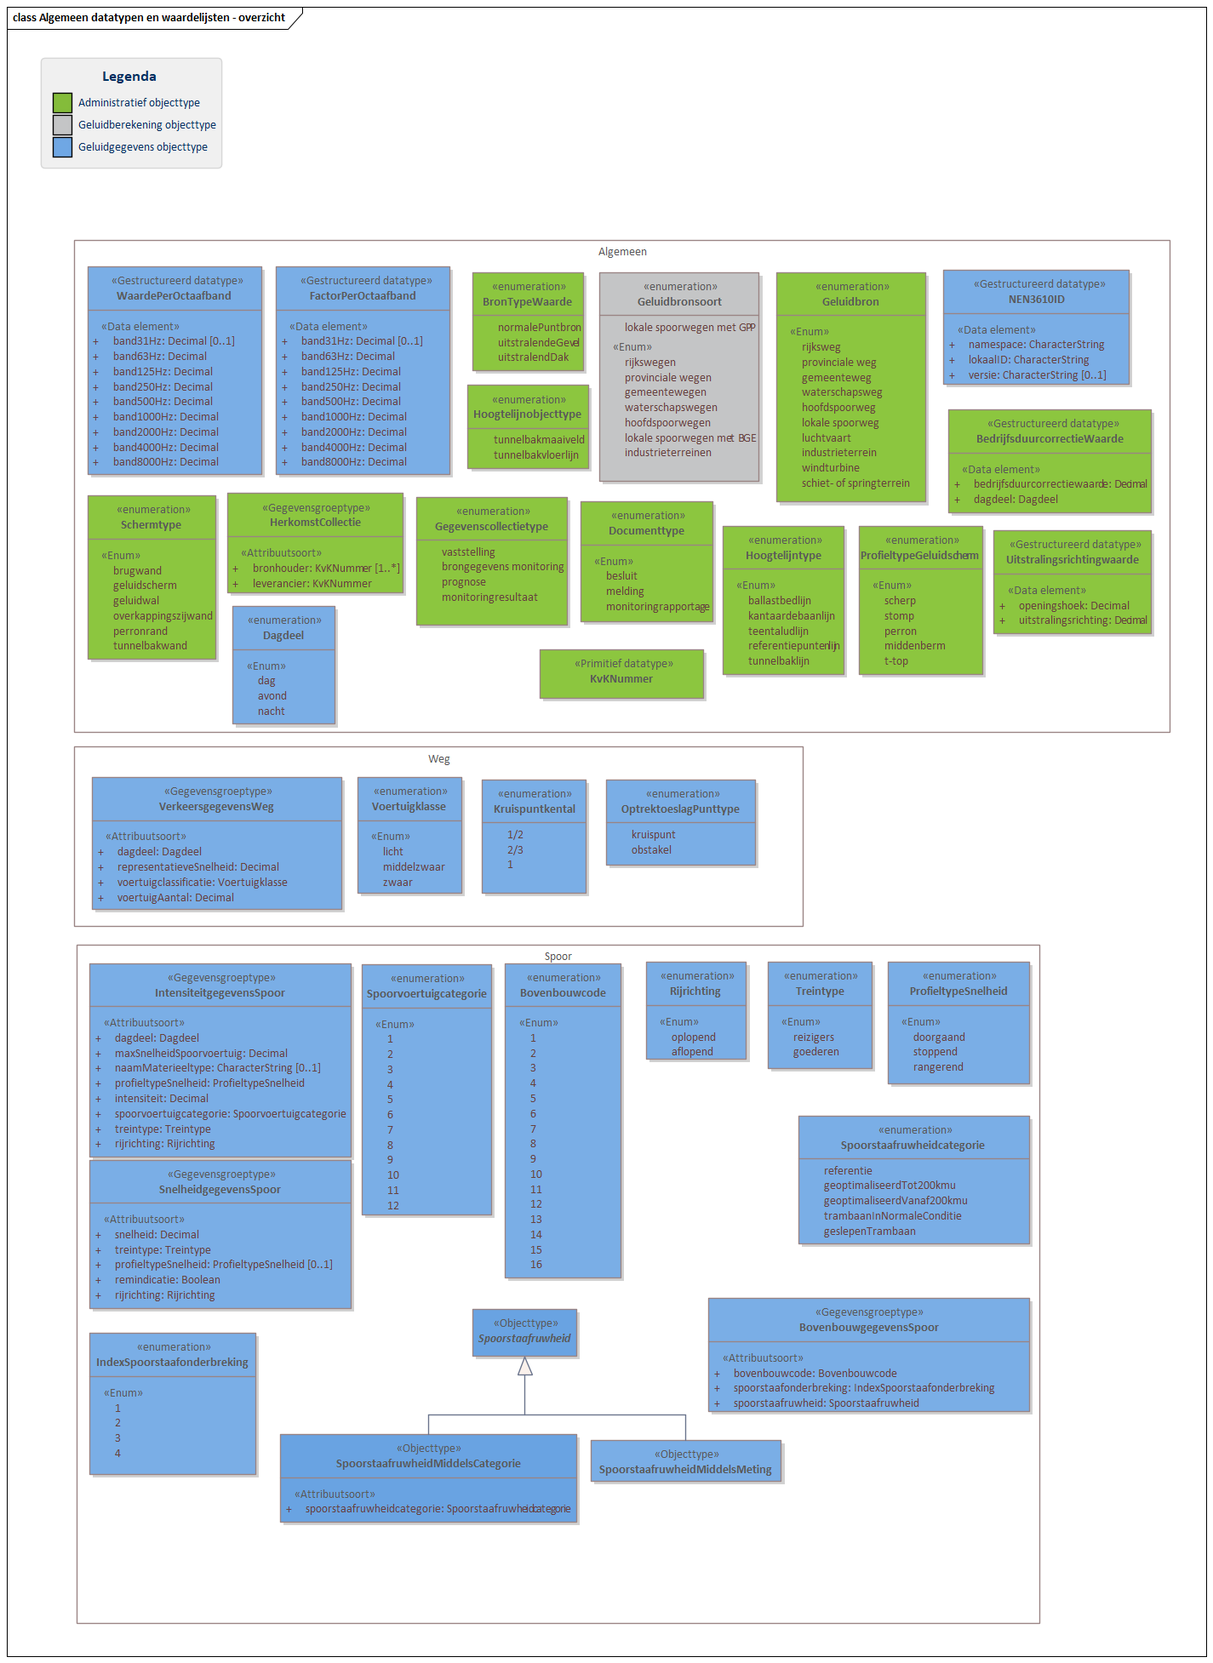
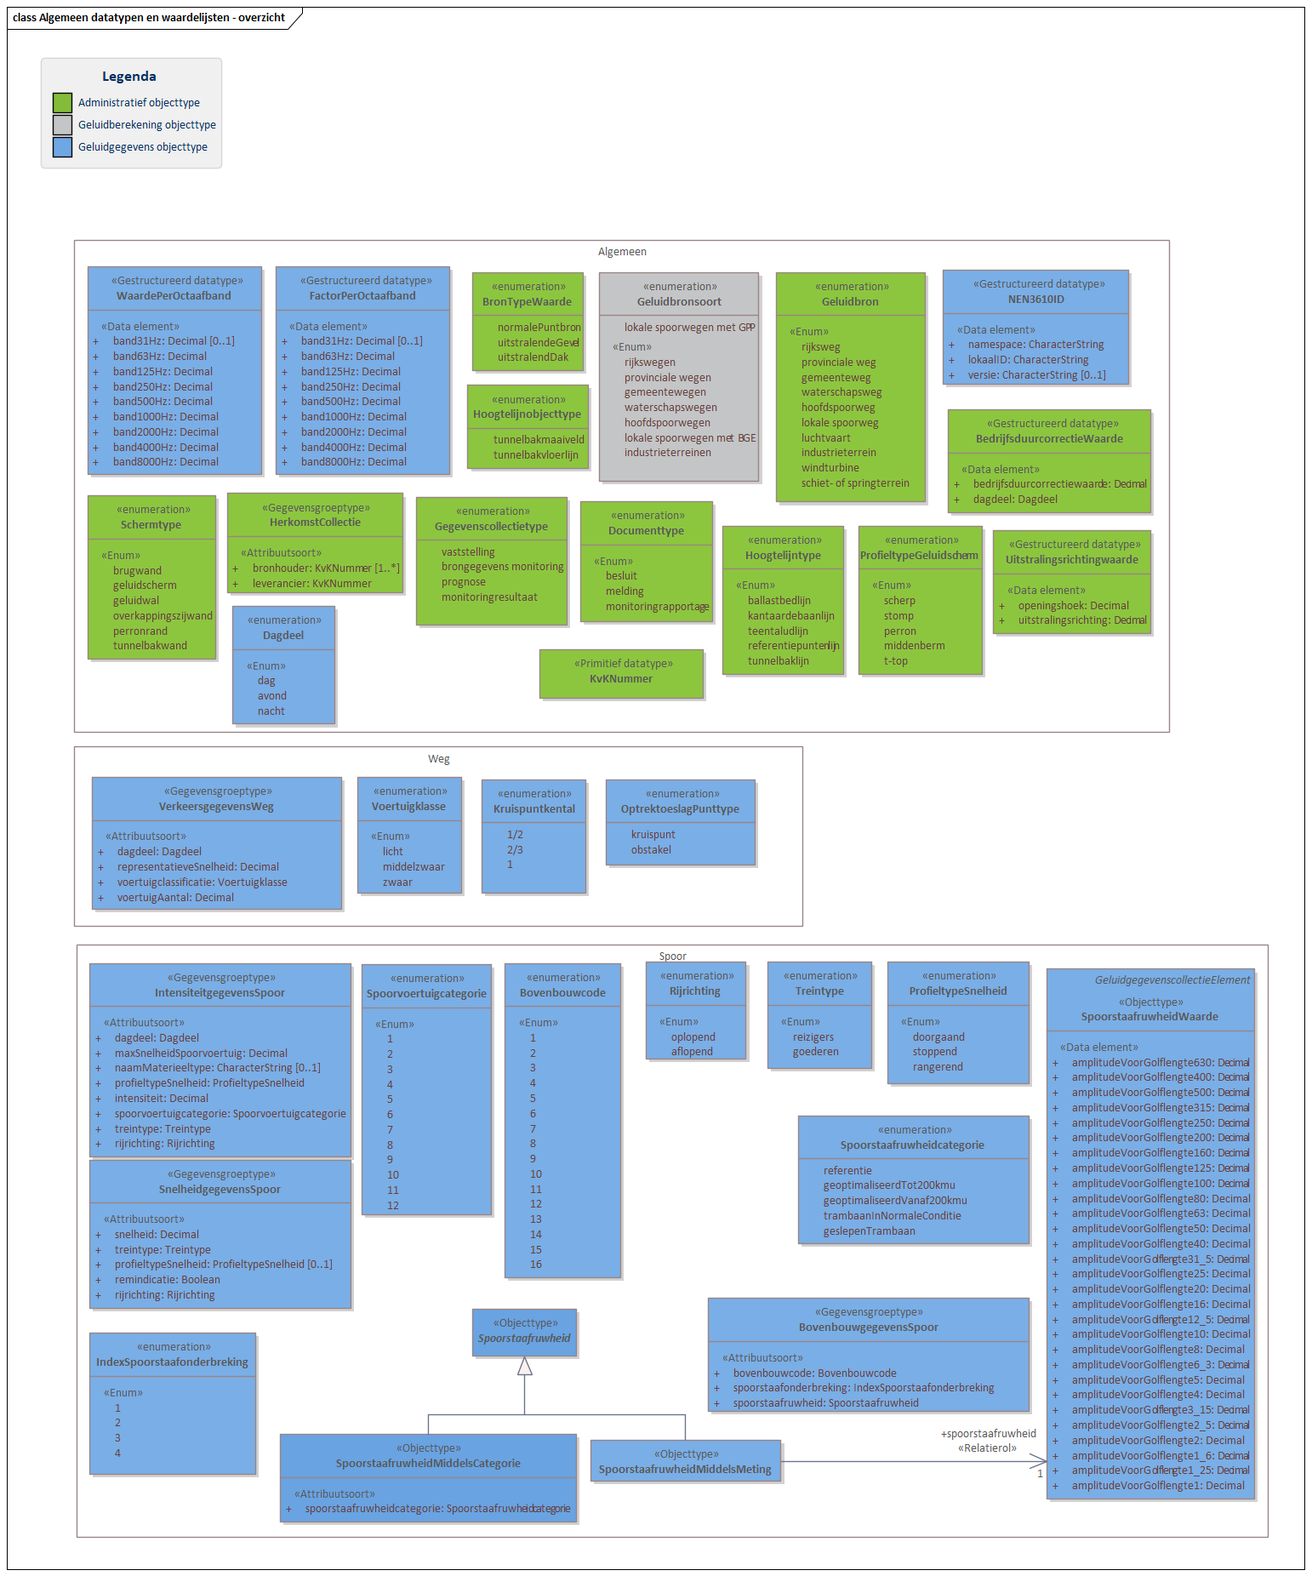
MIMLM-InformatiemodelGeluid-1.1-0-20210521-20211102-105817

diff --git a/data/IMG-cat.respec.html b/data/IMG-cat.respec.html
@@ -1,7 +1,7 @@
 
 <!DOCTYPE HTML><section id="cat" class="normative">
    <h2>Gegevensdefinitie</h2>
-   <!--MIMLM-InformatiemodelGeluid-1.1-0-20210521-20211102-103802 imvertor 1.65.2-->
+   <!--MIMLM-InformatiemodelGeluid-1.1-0-20210521-20211102-105817 imvertor 1.65.2-->
    <section id="EAID_66AE8FA2_74FC_4d4d_B2B2_249C8D6A651F">
       <h3>   Basismodel - overzicht</h3>
       <div class="imageinfo overview"><img src="data/Images/EAID_66AE8FA2_74FC_4d4d_B2B2_249C8D6A651F.png" usemap="#imagemap-EAID_66AE8FA2_74FC_4d4d_B2B2_249C8D6A651F" alt="Diagram &#xA;                        Het Basismodel vormt de samenhang tussen alle domeinen van het IMGeluid. Alle objecttypen en relaties uit het IMGeluid komen samen in een Geluidgegevenscollectie.&#xA;                        Binnen het IMGeluid worden geluidbrongegevens die gebruikt worden voor GPP en BGE berekeningen, gemodelleerd als een Geluidemissie of Geluidoverdrachtobject. De resultaten van GPP of BGE berekeningen worden opgeslagen in een Geluidgegevenscollectie. De onderliggende juridische vastleggingen, vaststellingen, of monitoringsverslagen van deze omgevings- of monitoringswaarden, worden ook opgeslagen in dezelfde Geluidgegevenscollectie.&#xA;                        Per geluidbron per toepassing kan er een Geluidgegevenscollectie bestaan. Deze kan geassocieerd worden met maximaal 1 Geluidaandachtsgebied. Wanneer geluidgegevens met betrekking tot cumulatieberekeningen worden aangeleverd, bevat een Geluidgegevenscollectie geen Geluidaandachtsgebied.&#xA;                        &#xA;                        # test&#xA;                        &#xA;                        Klik met de rechtermuisknop op het diagram om de afbeelding op volledige grote in een nieuw tabblad te openen.&#xA;                     "><map name="imagemap-EAID_66AE8FA2_74FC_4d4d_B2B2_249C8D6A651F"><area shape="rect" alt="GeluidgegevenscollectieElement" coords="411,164,648,268" href="#graph_EAID_924BD078_D715_461a_B7E9_D7176A7406E0"><area shape="rect" alt="Monitoringresultaat" coords="664,812,943,963" href="#graph_EAID_BA00B77B_D408_4590_8185_CE59E5838F1E"><area shape="rect" alt="Basisgeluidemissieobject" coords="217,772,522,909" href="#graph_EAID_9AD15457_4880_42e5_8C72_4E5EFAC91B15"><area shape="rect" alt="Geluidproductieplafondobject" coords="1160,508,1446,772" href="#graph_EAID_237408F8_8CE9_4828_B8FB_1A5B8C917622"><area shape="rect" alt="Geluidberekeningobject" coords="678,1071,992,1271" href="#graph_EAID_97ED59FE_9FCA_49a6_8F07_214E48000B76"><area shape="rect" alt="Documentverwijzing" coords="711,391,968,566" href="#graph_EAID_7E137496_1028_4af5_9367_569358A2167B"><area shape="rect" alt="Geluidaandachtsgebied" coords="1231,284,1477,424" href="#graph_EAID_B06128AC_518C_4e26_88E5_14ED5A050A19"><area shape="rect" alt="Geluidgegevenscollectie" coords="812,68,1155,297" href="#graph_EAID_313C5AF9_49B8_4860_9E65_DE7C70084864"><area shape="rect" alt="Geluidemissieobject" coords="171,365,437,525" href="#graph_EAID_361C96BA_A638_494e_80BA_590ED481A81B"><area shape="rect" alt="Geluidoverdrachtobject" coords="197,549,476,686" href="#graph_EAID_2FEA326B_B7E7_48a4_B50F_00CCB2694677"></map><p><b>Basismodel - overzicht</b>
@@ -75,7 +75,7 @@
    </section>
    <section id="EAID_82B8575E_C02C_4e96_9E78_ABCC68855A02">
       <h3>   GPP Weg - overzicht</h3>
-      <div class="imageinfo overview"><img src="data/Images/EAID_82B8575E_C02C_4e96_9E78_ABCC68855A02.png" usemap="#imagemap-EAID_82B8575E_C02C_4e96_9E78_ABCC68855A02" alt="Diagram &#xA;                        In domeinmodel GPP Weg staan objecttypen en relaties die relevant zijn voor geluidbronbeheersing van wegen waarvoor de geluidproductieplafond regeling geldt; en die nodig zijn voor akoestisch onderzoek binnen het geluidaandachtsgebied van wegen.&#xA;Geluidbronnen binnen GPP Weg worden opgeslagen als lijnbron conform het object WegdeelGPP. &#xA;Voor ieder Geluidproductieplafondobject langs een Provinciale weg of Rijksweg, valt te herleiden op welke geluidberekening de geluidproductieplafondwaarde gebaseerd is. Deze informatie wordt bijgehouden conform het Geluidberekeningobject.&#xA;Ook valt er te herleiden welke geluidbrongegevens gebruikt zijn bij een geluidberekening. Deze geluidbrongegevens zijn samen met het Geluidberekeningsobject terug te vinden in een  Geluidgegevenscollectie in de vorm van gespecialiseerde geluidemissie- en geluidoverdrachtsobjecten.&#xA;&#xA;Klik met de rechtermuisknop op het diagram om de afbeelding op volledige grote in een nieuw tabblad te openen&#xA;                     "><map name="imagemap-EAID_82B8575E_C02C_4e96_9E78_ABCC68855A02"><area shape="rect" alt="GeluidgegevenscollectieElement" coords="1494,139,1681,249" href="#graph_EAID_924BD078_D715_461a_B7E9_D7176A7406E0"><area shape="rect" alt="Optrektoeslagvlak" coords="510,905,705,1026" href="#graph_EAID_7B375F30_CFE3_4f88_89E4_2C69854B8FB5"><area shape="rect" alt="Optrektoeslagpunt" coords="473,648,728,787" href="#graph_EAID_9462FEBF_FCC1_467b_B3EE_235782AA2541"><area shape="rect" alt="Hoogtelijnspecificatie" coords="901,828,1209,950" href="#graph_EAID_B01AA864_A542_404a_908D_E23998395B87"><area shape="rect" alt="Monitoringresultaat" coords="1604,648,1889,805" href="#graph_EAID_BA00B77B_D408_4590_8185_CE59E5838F1E"><area shape="rect" alt="Geluidgegevenscollectie" coords="1838,79,2103,308" href="#graph_EAID_313C5AF9_49B8_4860_9E65_DE7C70084864"><area shape="rect" alt="Geluidemissieobject" coords="213,364,458,543" href="#graph_EAID_361C96BA_A638_494e_80BA_590ED481A81B"><area shape="rect" alt="Geluidoverdrachtobject" coords="1048,372,1293,529" href="#graph_EAID_2FEA326B_B7E7_48a4_B50F_00CCB2694677"><area shape="rect" alt="Diffractor" coords="1074,991,1337,1148" href="#graph_EAID_1B63DB45_6061_48e5_8890_AC0CA30E1454"><area shape="rect" alt="WegdeelGPP" coords="48,638,357,857" href="#graph_EAID_955703EE_254E_4d46_89C5_37D46AEADA8B"><area shape="rect" alt="Bodemvlak" coords="798,664,991,787" href="#graph_EAID_902B9218_E1B1_4512_B52A_F8DADD1DB990"><area shape="rect" alt="Geluidschermdeel" coords="1293,645,1580,873" href="#graph_EAID_BC342A75_1053_4086_9B42_321F22E3FA82"><area shape="rect" alt="Hoogtelijn" coords="1011,667,1204,784" href="#graph_EAID_CE3003A0_5F16_4630_B2A6_519B33439135"><area shape="rect" alt="Geluidberekeningobject" coords="1648,921,1960,1155" href="#graph_EAID_97ED59FE_9FCA_49a6_8F07_214E48000B76"><area shape="rect" alt="Documentverwijzing" coords="1751,392,1968,569" href="#graph_EAID_7E137496_1028_4af5_9367_569358A2167B"><area shape="rect" alt="Geluidaandachtsgebied" coords="2204,998,2526,1141" href="#graph_EAID_B06128AC_518C_4e26_88E5_14ED5A050A19"><area shape="rect" alt="Geluidproductieplafondobject" coords="2091,508,2385,794" href="#graph_EAID_237408F8_8CE9_4828_B8FB_1A5B8C917622"></map><p><b>GPP Weg - overzicht</b>
+      <div class="imageinfo overview"><img src="data/Images/EAID_82B8575E_C02C_4e96_9E78_ABCC68855A02.png" usemap="#imagemap-EAID_82B8575E_C02C_4e96_9E78_ABCC68855A02" alt="Diagram &#xA;                        In domeinmodel GPP Weg staan objecttypen en relaties die relevant zijn voor geluidbronbeheersing van wegen waarvoor de geluidproductieplafond regeling geldt; en die nodig zijn voor akoestisch onderzoek binnen het geluidaandachtsgebied van wegen.&#xA;Geluidbronnen binnen GPP Weg worden opgeslagen als lijnbron conform het object WegdeelGPP. &#xA;Voor ieder Geluidproductieplafondobject langs een Provinciale weg of Rijksweg, valt te herleiden op welke geluidberekening de geluidproductieplafondwaarde gebaseerd is. Deze informatie wordt bijgehouden conform het Geluidberekeningobject.&#xA;Ook valt er te herleiden welke geluidbrongegevens gebruikt zijn bij een geluidberekening. Deze geluidbrongegevens zijn samen met het Geluidberekeningsobject terug te vinden in een  Geluidgegevenscollectie in de vorm van gespecialiseerde geluidemissie- en geluidoverdrachtsobjecten.&#xA;&#xA;Klik met de rechtermuisknop op het diagram om de afbeelding op volledige grote in een nieuw tabblad te openen&#xA;                     "><map name="imagemap-EAID_82B8575E_C02C_4e96_9E78_ABCC68855A02"><area shape="rect" alt="GeluidgegevenscollectieElement" coords="1494,139,1681,249" href="#graph_EAID_924BD078_D715_461a_B7E9_D7176A7406E0"><area shape="rect" alt="Optrektoeslagvlak" coords="510,905,705,1026" href="#graph_EAID_7B375F30_CFE3_4f88_89E4_2C69854B8FB5"><area shape="rect" alt="Optrektoeslagpunt" coords="473,648,728,787" href="#graph_EAID_9462FEBF_FCC1_467b_B3EE_235782AA2541"><area shape="rect" alt="Hoogtelijnspecificatie" coords="901,828,1209,950" href="#graph_EAID_B01AA864_A542_404a_908D_E23998395B87"><area shape="rect" alt="Monitoringresultaat" coords="1604,648,1889,769" href="#graph_EAID_BA00B77B_D408_4590_8185_CE59E5838F1E"><area shape="rect" alt="Geluidgegevenscollectie" coords="1838,79,2103,308" href="#graph_EAID_313C5AF9_49B8_4860_9E65_DE7C70084864"><area shape="rect" alt="Geluidemissieobject" coords="213,364,458,504" href="#graph_EAID_361C96BA_A638_494e_80BA_590ED481A81B"><area shape="rect" alt="Geluidoverdrachtobject" coords="1048,372,1293,495" href="#graph_EAID_2FEA326B_B7E7_48a4_B50F_00CCB2694677"><area shape="rect" alt="Diffractor" coords="1074,991,1337,1148" href="#graph_EAID_1B63DB45_6061_48e5_8890_AC0CA30E1454"><area shape="rect" alt="WegdeelGPP" coords="48,638,357,857" href="#graph_EAID_955703EE_254E_4d46_89C5_37D46AEADA8B"><area shape="rect" alt="Bodemvlak" coords="798,664,991,787" href="#graph_EAID_902B9218_E1B1_4512_B52A_F8DADD1DB990"><area shape="rect" alt="Geluidschermdeel" coords="1293,645,1580,873" href="#graph_EAID_BC342A75_1053_4086_9B42_321F22E3FA82"><area shape="rect" alt="Hoogtelijn" coords="1011,667,1204,784" href="#graph_EAID_CE3003A0_5F16_4630_B2A6_519B33439135"><area shape="rect" alt="Geluidberekeningobject" coords="1648,921,1960,1155" href="#graph_EAID_97ED59FE_9FCA_49a6_8F07_214E48000B76"><area shape="rect" alt="Documentverwijzing" coords="1751,392,1971,549" href="#graph_EAID_7E137496_1028_4af5_9367_569358A2167B"><area shape="rect" alt="Geluidaandachtsgebied" coords="2204,998,2526,1141" href="#graph_EAID_B06128AC_518C_4e26_88E5_14ED5A050A19"><area shape="rect" alt="Geluidproductieplafondobject" coords="2091,508,2385,794" href="#graph_EAID_237408F8_8CE9_4828_B8FB_1A5B8C917622"></map><p><b>GPP Weg - overzicht</b>
             
             <p>In domeinmodel GPP Weg staan objecttypen en relaties die relevant zijn voor geluidbronbeheersing
                van wegen waarvoor de geluidproductieplafond regeling geldt; en die nodig zijn voor
@@ -159,7 +159,7 @@
    </section>
    <section id="EAID_6CCCDEA4_4D5E_407f_A06B_3D2E5CD4D5B7">
       <h3>   Algemeen datatypen en waardelijsten - overzicht</h3>
-      <div class="imageinfo overview"><img src="data/Images/EAID_6CCCDEA4_4D5E_407f_A06B_3D2E5CD4D5B7.png" usemap="#imagemap-EAID_6CCCDEA4_4D5E_407f_A06B_3D2E5CD4D5B7" alt="Diagram &#xA;                        &#xA;                     "><map name="imagemap-EAID_6CCCDEA4_4D5E_407f_A06B_3D2E5CD4D5B7"><area shape="rect" alt="SpoorstaafruwheidMiddelsMeting" coords="694,1692,918,1741" href="#graph_EAID_477FC880_34DC_46fb_8ABC_1BE75029EB19"><area shape="rect" alt="SpoorstaafruwheidMiddelsCategorie" coords="329,1685,678,1789" href="#graph_EAID_26C69E60_CC91_4b9d_9835_BDCFE1B1EF21"><area shape="rect" alt="Spoorstaafruwheid" coords="555,1538,678,1594" href="#graph_EAID_0AB8B11D_AF5F_429f_95F9_D384A2349E44"><area shape="rect" alt="Schermtype" coords="103,582,254,775" href="#graph_EAID_C9ACE184_6E2B_40c1_ACE0_A7C5EE554EF9"><area shape="rect" alt="Hoogtelijntype" coords="849,618,992,793" href="#graph_EAID_46116480_7260_453f_A7D6_80B6C72C8BDC"><area shape="rect" alt="ProfieltypeGeluidscherm" coords="1009,618,1155,793" href="#graph_EAID_F76303B4_A75E_4671_8977_C4719B32F932"><area shape="rect" alt="Hoogtelijnobjecttype" coords="549,452,692,551" href="#graph_EAID_2C63527A_74A7_4248_A10B_74D236BA4163"><area shape="rect" alt="BronTypeWaarde" coords="555,320,686,436" href="#graph_EAID_4858CC05_8BCF_466f_A2F4_B8B01BEF16A6"><area shape="rect" alt="BedrijfsduurcorrectieWaarde" coords="1114,481,1353,603" href="#graph_EAID_EC155AB1_EEFE_4a82_BEF9_003F0872B893"><area shape="rect" alt="Uitstralingsrichtingwaarde" coords="1167,623,1353,745" href="#graph_EAID_C522F5BC_D298_4887_8030_D6271385F840"><area shape="rect" alt="Kruispuntkental" coords="566,916,689,1050" href="#graph_EAID_951E9EFA_E876_44d0_B49F_86C07099E21F"><area shape="rect" alt="OptrektoeslagPunttype" coords="712,916,888,1017" href="#graph_EAID_9A9D8D19_D8A0_4241_A6F6_5B7E0D4C7E58"><area shape="rect" alt="IndexSpoorstaafonderbreking" coords="105,1566,301,1733" href="#graph_EAID_89531B10_996F_4085_93AC_36BCCB16C95D"><area shape="rect" alt="Spoorstaafruwheidcategorie" coords="938,1311,1210,1462" href="#graph_EAID_01C33249_C871_41b9_8872_4135A5E35943"><area shape="rect" alt="Voertuigklasse" coords="420,913,543,1050" href="#graph_EAID_26C18A71_6F81_4654_8495_3E28EE752A22"><area shape="rect" alt="NEN3610ID" coords="1108,317,1327,452" href="#graph_EAID_3F873D6C_1774_46ea_A631_862E358016E9"><area shape="rect" alt="Spoorvoertuigcategorie" coords="425,1133,578,1428" href="#graph_EAID_C59D8682_FC4E_4844_9466_C17945725615"><area shape="rect" alt="Bovenbouwcode" coords="593,1132,730,1502" href="#graph_EAID_E26FD10C_DEC5_4394_B498_B9522FAC3DA4"><area shape="rect" alt="Gegevenscollectietype" coords="489,584,667,735" href="#graph_EAID_B6773E1F_22D6_4682_B531_6A2D392A2B3C"><area shape="rect" alt="Documenttype" coords="682,589,838,731" href="#graph_EAID_30A82434_4787_4191_A68D_023591D3D78E"><area shape="rect" alt="Dagdeel" coords="273,712,394,851" href="#graph_EAID_00122B9B_F5D7_4dbc_8F39_D0F426DF8C39"><area shape="rect" alt="BovenbouwgegevensSpoor" coords="832,1525,1210,1659" href="#graph_EAID_B5BBEDFE_C275_4c9f_BFF4_0440A0F7820B"><area shape="rect" alt="HerkomstCollectie" coords="267,579,474,697" href="#graph_EAID_0CBE6FF8_C5CF_452f_A268_2364394E4268"><area shape="rect" alt="ProfieltypeSnelheid" coords="1043,1130,1210,1274" href="#graph_EAID_2890B73C_6675_493b_8DE3_B0E30C61DBD1"><area shape="rect" alt="Treintype" coords="902,1130,1025,1256" href="#graph_EAID_11918723_A26B_4cbd_BC37_F6914A4A4A4E"><area shape="rect" alt="Rijrichting" coords="759,1130,877,1245" href="#graph_EAID_91B9181F_C621_4819_83E0_1A31A9EBCF7F"><area shape="rect" alt="IntensiteitgegevensSpoor" coords="105,1132,413,1360" href="#graph_EAID_5FFCEE29_DD71_45db_926C_AB9A7E8677F3"><area shape="rect" alt="SnelheidgegevensSpoor" coords="105,1363,413,1538" href="#graph_EAID_00CB7C0F_9A33_426c_90AE_DAAF97D29F7F"><area shape="rect" alt="VerkeersgegevensWeg" coords="108,913,402,1069" href="#graph_EAID_A5AB50E8_5A98_4426_A89E_F5C9D91CF6F8"><area shape="rect" alt="FactorPerOctaafband" coords="324,313,529,558" href="#graph_EAID_2E128FCF_DE66_4517_86D2_331E9E0C46EE"><area shape="rect" alt="WaardePerOctaafband" coords="103,313,308,558" href="#graph_EAID_7AE14E60_44F9_4af5_A8D1_D005D44A25BE"><area shape="rect" alt="Geluidbron" coords="912,320,1088,590" href="#graph_EAID_6FABE66F_BDF5_4771_AEE2_5B9B0C9199C2"><area shape="rect" alt="Geluidbronsoort" coords="704,320,892,566" href="#graph_EAID_16AB414E_37DD_460d_AEAE_00A62748E617"></map><p><b>Algemeen datatypen en waardelijsten - overzicht</b></p>
+      <div class="imageinfo overview"><img src="data/Images/EAID_6CCCDEA4_4D5E_407f_A06B_3D2E5CD4D5B7.png" usemap="#imagemap-EAID_6CCCDEA4_4D5E_407f_A06B_3D2E5CD4D5B7" alt="Diagram &#xA;                        &#xA;                     "><map name="imagemap-EAID_6CCCDEA4_4D5E_407f_A06B_3D2E5CD4D5B7"><area shape="rect" alt="SpoorstaafruwheidWaarde" coords="1230,1138,1475,1762" href="#graph_EAID_E5D9E12A_27B9_417c_ABEB_2149C046EBE0"><area shape="rect" alt="SpoorstaafruwheidMiddelsMeting" coords="694,1692,918,1741" href="#graph_EAID_477FC880_34DC_46fb_8ABC_1BE75029EB19"><area shape="rect" alt="SpoorstaafruwheidMiddelsCategorie" coords="329,1685,678,1789" href="#graph_EAID_26C69E60_CC91_4b9d_9835_BDCFE1B1EF21"><area shape="rect" alt="Spoorstaafruwheid" coords="555,1538,678,1594" href="#graph_EAID_0AB8B11D_AF5F_429f_95F9_D384A2349E44"><area shape="rect" alt="Schermtype" coords="103,582,254,775" href="#graph_EAID_C9ACE184_6E2B_40c1_ACE0_A7C5EE554EF9"><area shape="rect" alt="Hoogtelijntype" coords="849,618,992,793" href="#graph_EAID_46116480_7260_453f_A7D6_80B6C72C8BDC"><area shape="rect" alt="ProfieltypeGeluidscherm" coords="1009,618,1155,793" href="#graph_EAID_F76303B4_A75E_4671_8977_C4719B32F932"><area shape="rect" alt="Hoogtelijnobjecttype" coords="549,452,692,551" href="#graph_EAID_2C63527A_74A7_4248_A10B_74D236BA4163"><area shape="rect" alt="BronTypeWaarde" coords="555,320,686,436" href="#graph_EAID_4858CC05_8BCF_466f_A2F4_B8B01BEF16A6"><area shape="rect" alt="BedrijfsduurcorrectieWaarde" coords="1114,481,1353,603" href="#graph_EAID_EC155AB1_EEFE_4a82_BEF9_003F0872B893"><area shape="rect" alt="Uitstralingsrichtingwaarde" coords="1167,623,1353,745" href="#graph_EAID_C522F5BC_D298_4887_8030_D6271385F840"><area shape="rect" alt="Kruispuntkental" coords="566,916,689,1050" href="#graph_EAID_951E9EFA_E876_44d0_B49F_86C07099E21F"><area shape="rect" alt="OptrektoeslagPunttype" coords="712,916,888,1017" href="#graph_EAID_9A9D8D19_D8A0_4241_A6F6_5B7E0D4C7E58"><area shape="rect" alt="IndexSpoorstaafonderbreking" coords="105,1566,301,1733" href="#graph_EAID_89531B10_996F_4085_93AC_36BCCB16C95D"><area shape="rect" alt="Spoorstaafruwheidcategorie" coords="938,1311,1210,1462" href="#graph_EAID_01C33249_C871_41b9_8872_4135A5E35943"><area shape="rect" alt="Voertuigklasse" coords="420,913,543,1050" href="#graph_EAID_26C18A71_6F81_4654_8495_3E28EE752A22"><area shape="rect" alt="NEN3610ID" coords="1108,317,1327,452" href="#graph_EAID_3F873D6C_1774_46ea_A631_862E358016E9"><area shape="rect" alt="Spoorvoertuigcategorie" coords="425,1133,578,1428" href="#graph_EAID_C59D8682_FC4E_4844_9466_C17945725615"><area shape="rect" alt="Bovenbouwcode" coords="593,1132,730,1502" href="#graph_EAID_E26FD10C_DEC5_4394_B498_B9522FAC3DA4"><area shape="rect" alt="Gegevenscollectietype" coords="489,584,667,735" href="#graph_EAID_B6773E1F_22D6_4682_B531_6A2D392A2B3C"><area shape="rect" alt="Documenttype" coords="682,589,838,731" href="#graph_EAID_30A82434_4787_4191_A68D_023591D3D78E"><area shape="rect" alt="Dagdeel" coords="273,712,394,851" href="#graph_EAID_00122B9B_F5D7_4dbc_8F39_D0F426DF8C39"><area shape="rect" alt="BovenbouwgegevensSpoor" coords="832,1525,1210,1659" href="#graph_EAID_B5BBEDFE_C275_4c9f_BFF4_0440A0F7820B"><area shape="rect" alt="HerkomstCollectie" coords="267,579,474,697" href="#graph_EAID_0CBE6FF8_C5CF_452f_A268_2364394E4268"><area shape="rect" alt="ProfieltypeSnelheid" coords="1043,1130,1210,1274" href="#graph_EAID_2890B73C_6675_493b_8DE3_B0E30C61DBD1"><area shape="rect" alt="Treintype" coords="902,1130,1025,1256" href="#graph_EAID_11918723_A26B_4cbd_BC37_F6914A4A4A4E"><area shape="rect" alt="Rijrichting" coords="759,1130,877,1245" href="#graph_EAID_91B9181F_C621_4819_83E0_1A31A9EBCF7F"><area shape="rect" alt="IntensiteitgegevensSpoor" coords="105,1132,413,1360" href="#graph_EAID_5FFCEE29_DD71_45db_926C_AB9A7E8677F3"><area shape="rect" alt="SnelheidgegevensSpoor" coords="105,1363,413,1538" href="#graph_EAID_00CB7C0F_9A33_426c_90AE_DAAF97D29F7F"><area shape="rect" alt="VerkeersgegevensWeg" coords="108,913,402,1069" href="#graph_EAID_A5AB50E8_5A98_4426_A89E_F5C9D91CF6F8"><area shape="rect" alt="FactorPerOctaafband" coords="324,313,529,558" href="#graph_EAID_2E128FCF_DE66_4517_86D2_331E9E0C46EE"><area shape="rect" alt="WaardePerOctaafband" coords="103,313,308,558" href="#graph_EAID_7AE14E60_44F9_4af5_A8D1_D005D44A25BE"><area shape="rect" alt="Geluidbron" coords="912,320,1088,590" href="#graph_EAID_6FABE66F_BDF5_4771_AEE2_5B9B0C9199C2"><area shape="rect" alt="Geluidbronsoort" coords="704,320,892,566" href="#graph_EAID_16AB414E_37DD_460d_AEAE_00A62748E617"></map><p><b>Algemeen datatypen en waardelijsten - overzicht</b></p>
       </div>
    </section>
    <section id="">
@@ -6621,17 +6621,17 @@
                   <th>Definitie</th>
                   <td>
                      
-                     <p>Verwijzing naar de meting van de spoorstaafruwheid voor verschillende octaafbanden.</p>
+                     <p>Indicatie van de spoorstaafruwheid door verwijzing naar een SpoorstaafruwheidWaarde
+                        object.
+                        .</p>
                      </td>
                </tr>
                <tr>
                   <th>Toelichting</th>
                   <td>
                      
-                     <p>Dit is een verwijzing geworden omdat dezelfde meting vaak voor meerdere Spoordelen
-                        van toepassing is. Nu hoeft slechts het id van de meting opgenomen te worden op de
-                        plaats van de spoorstaafruwheid in de gegevensgroep bovenbouw en niet steeds de hele
-                        meting.</p>
+                     <p>Vaak hebben  meerdere Spoordelen dezelfde spoortsaafruwheid waarde. Al deze Spoordelen
+                        kunnen verwijzen naar hetzelfde SpoorstaafruwheidWaarde object.</p>
                      </td>
                </tr>
             </tbody>
@@ -25033,7 +25033,7 @@
 </section>
 <section id="lis" class="normative">
    <h2>Inhoud van waardenlijsten</h2>
-   <!--MIMLM-InformatiemodelGeluid-1.1-0-20210521-20211102-103802 imvertor 1.65.2--><a class="anchor" id="graph_EAID_C9ACE184_6E2B_40c1_ACE0_A7C5EE554EF9"></a><a class="anchor" id="detail_class_IMGeluidAlgemeen_Schermtype"></a><section id="detail_class_IMGeluidAlgemeen_Schermtype">
+   <!--MIMLM-InformatiemodelGeluid-1.1-0-20210521-20211102-105817 imvertor 1.65.2--><a class="anchor" id="graph_EAID_C9ACE184_6E2B_40c1_ACE0_A7C5EE554EF9"></a><a class="anchor" id="detail_class_IMGeluidAlgemeen_Schermtype"></a><section id="detail_class_IMGeluidAlgemeen_Schermtype">
       <h3>Enumeratie details  Schermtype</h3>
       
       <table style="width: 100%;" class="list">
